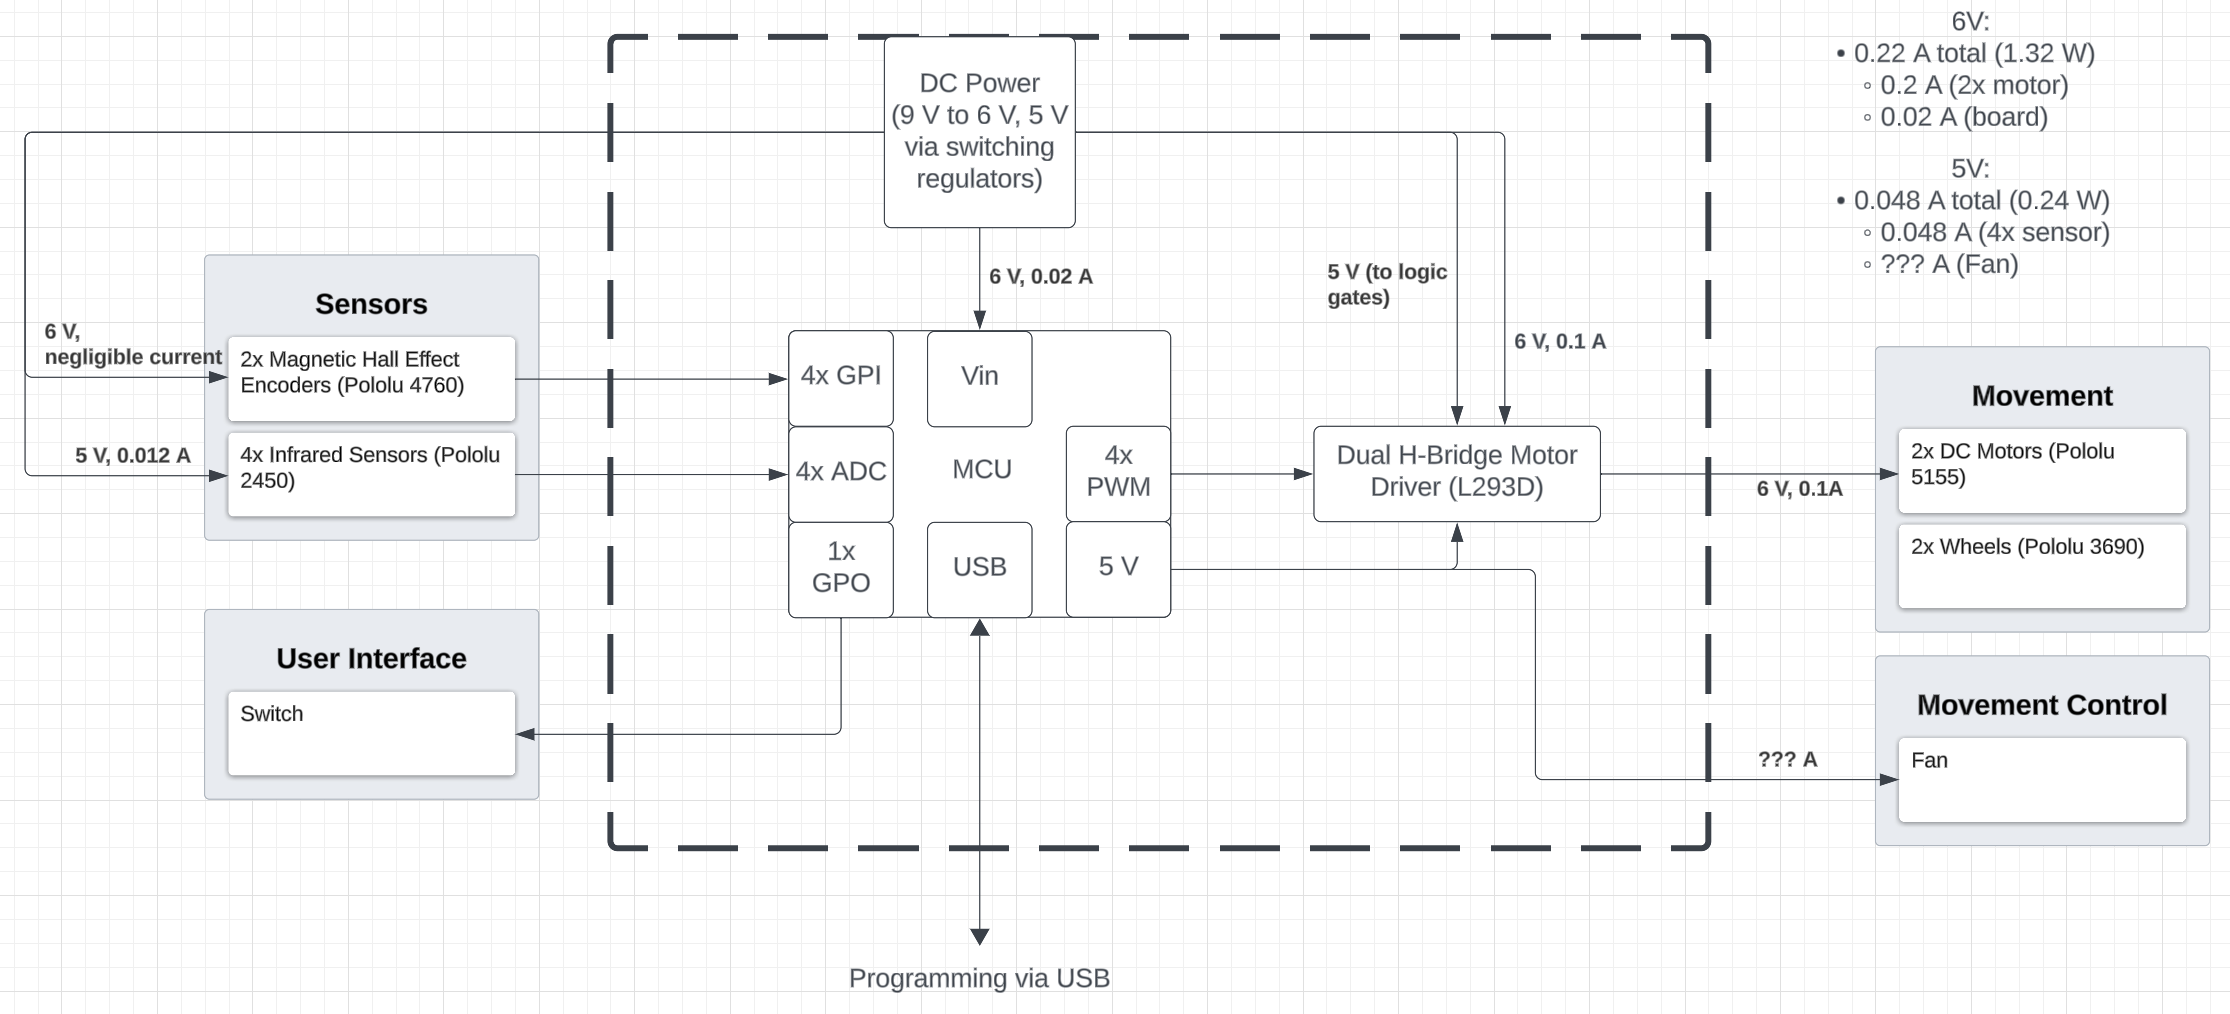
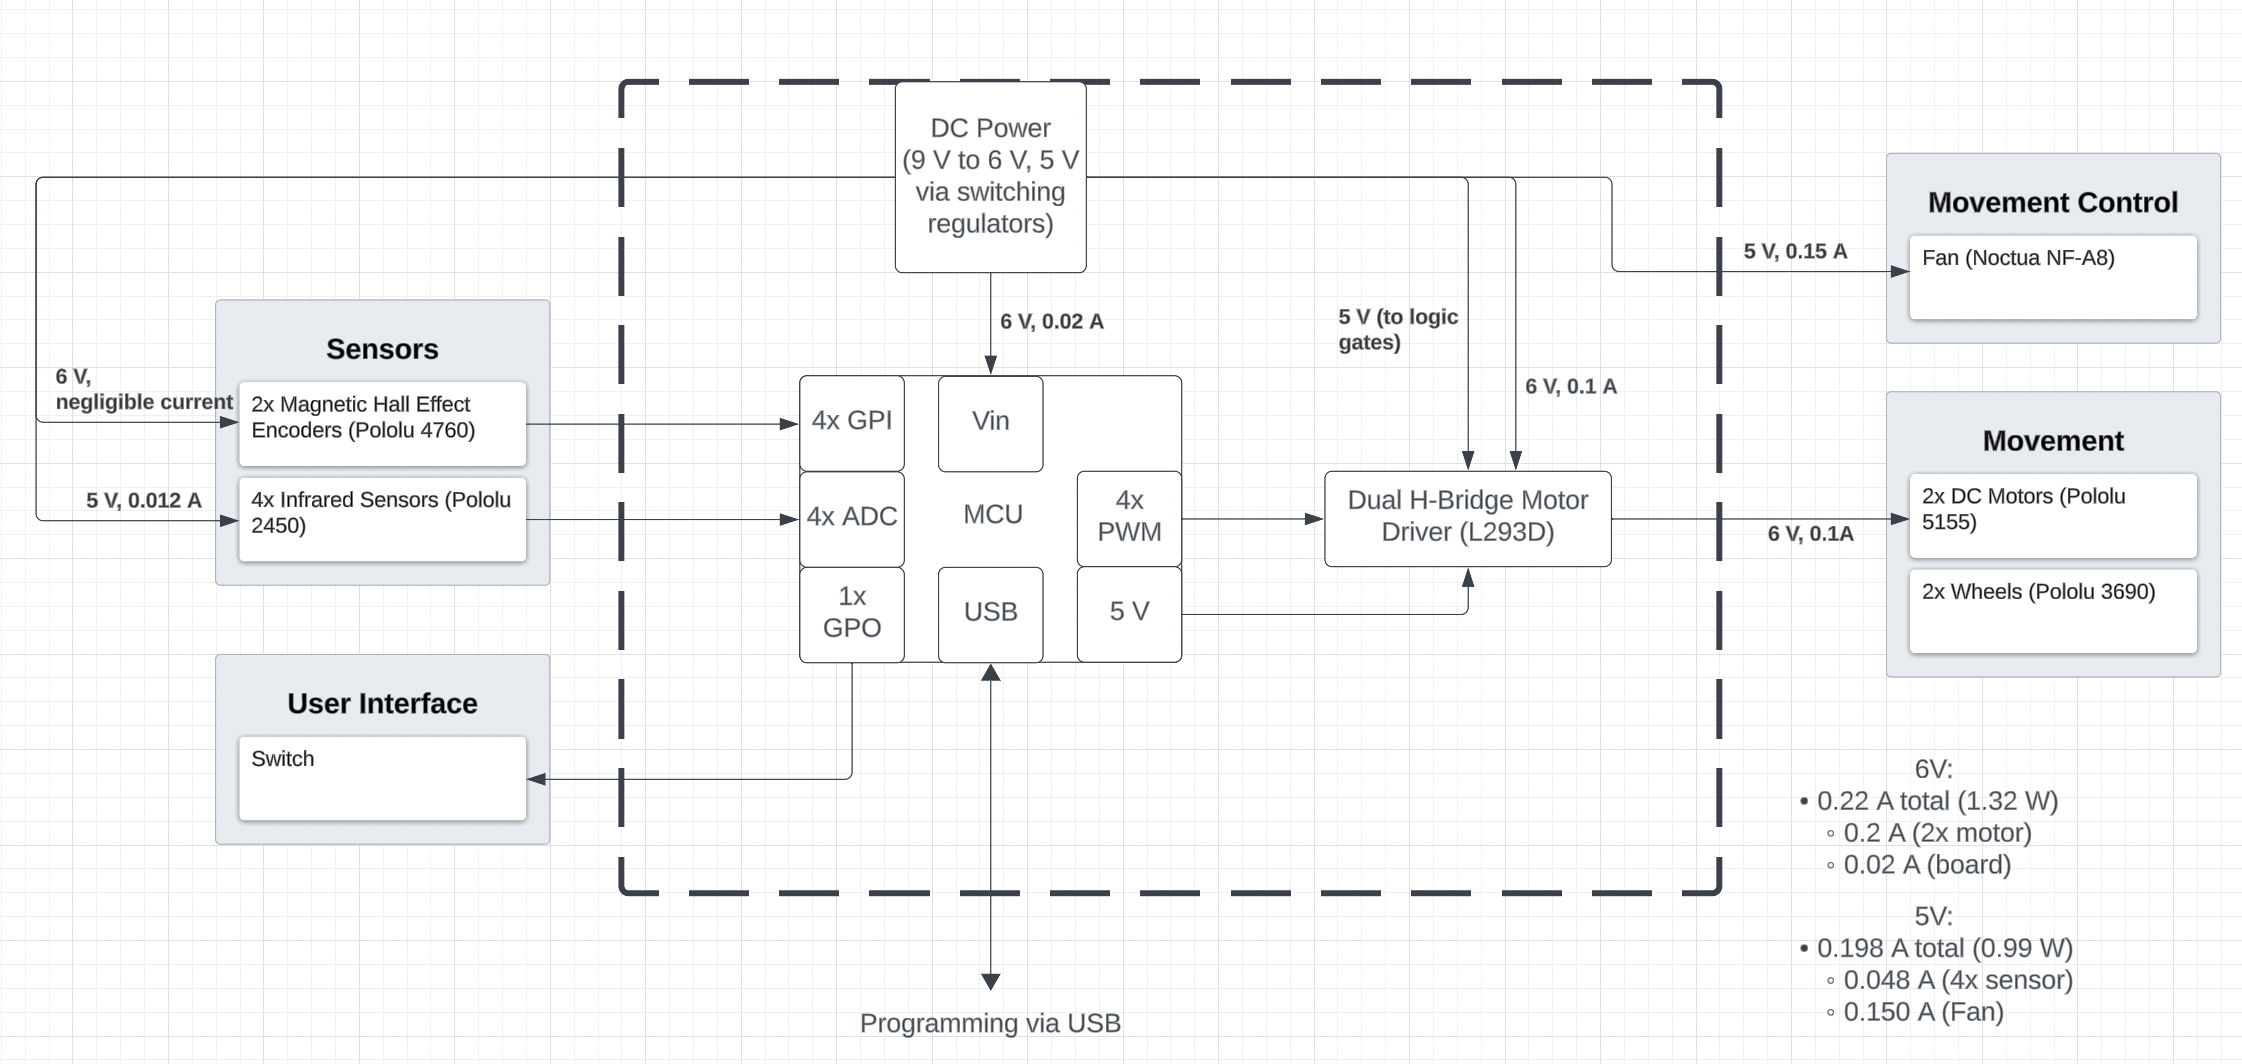
Added arduino code for driving motor and reading from encoders; Updated hardware

diff --git a/src/Arduino.hpp b/src/Arduino.hpp
@@ -1,0 +1,47 @@
+#include "floodfill.hpp"
+
+#define ENC1A 2
+#define ENC1B 3
+#define ENC2A 4
+#define ENC2B 5
+
+#define PWM1 6
+#define IN1 7
+#define PWM2 8
+#define IN2 9
+
+int posL = 0; // encoder count for left motor
+int posR = 0; // encoder count for right motor
+
+void setup() {
+  pinMode(ENC1A, INPUT);
+  pinMode(ENC1B, INPUT);
+  pinMode(ENC2A, INPUT);
+  pinMode(ENC2B, INPUT);
+  attachInterrupt(digitalPinToInterrupt(ENC1A), readEncoder, RISING);
+}
+
+void loop() {
+  //
+}
+
+void setMotor(int dir, int pwm_val, int pwm1, int pwm2) {
+  if (dir == 1) {
+    analogWrite(pwm1, pwm_val);
+    digitalWrite(pwm2, LOW);
+  }
+  else if (dir == -1) {
+    analogWrite(pwm2, pwm_val);
+    digitalWrite(pwm1, LOW);
+  }
+}
+
+void readEncoder() {
+  int b = digitalRead(ENC1B);
+  if (b > 0) {
+    posL++;
+  }
+  else {
+    posL--;
+  }
+}

diff --git a/src/sensors.hpp b/src/sensors.hpp
@@ -1,0 +1,10 @@
+#include <iostream>
+using namespace std;
+
+void encoder_int() {
+    //
+}
+
+void sensor_int() {
+    //
+}
